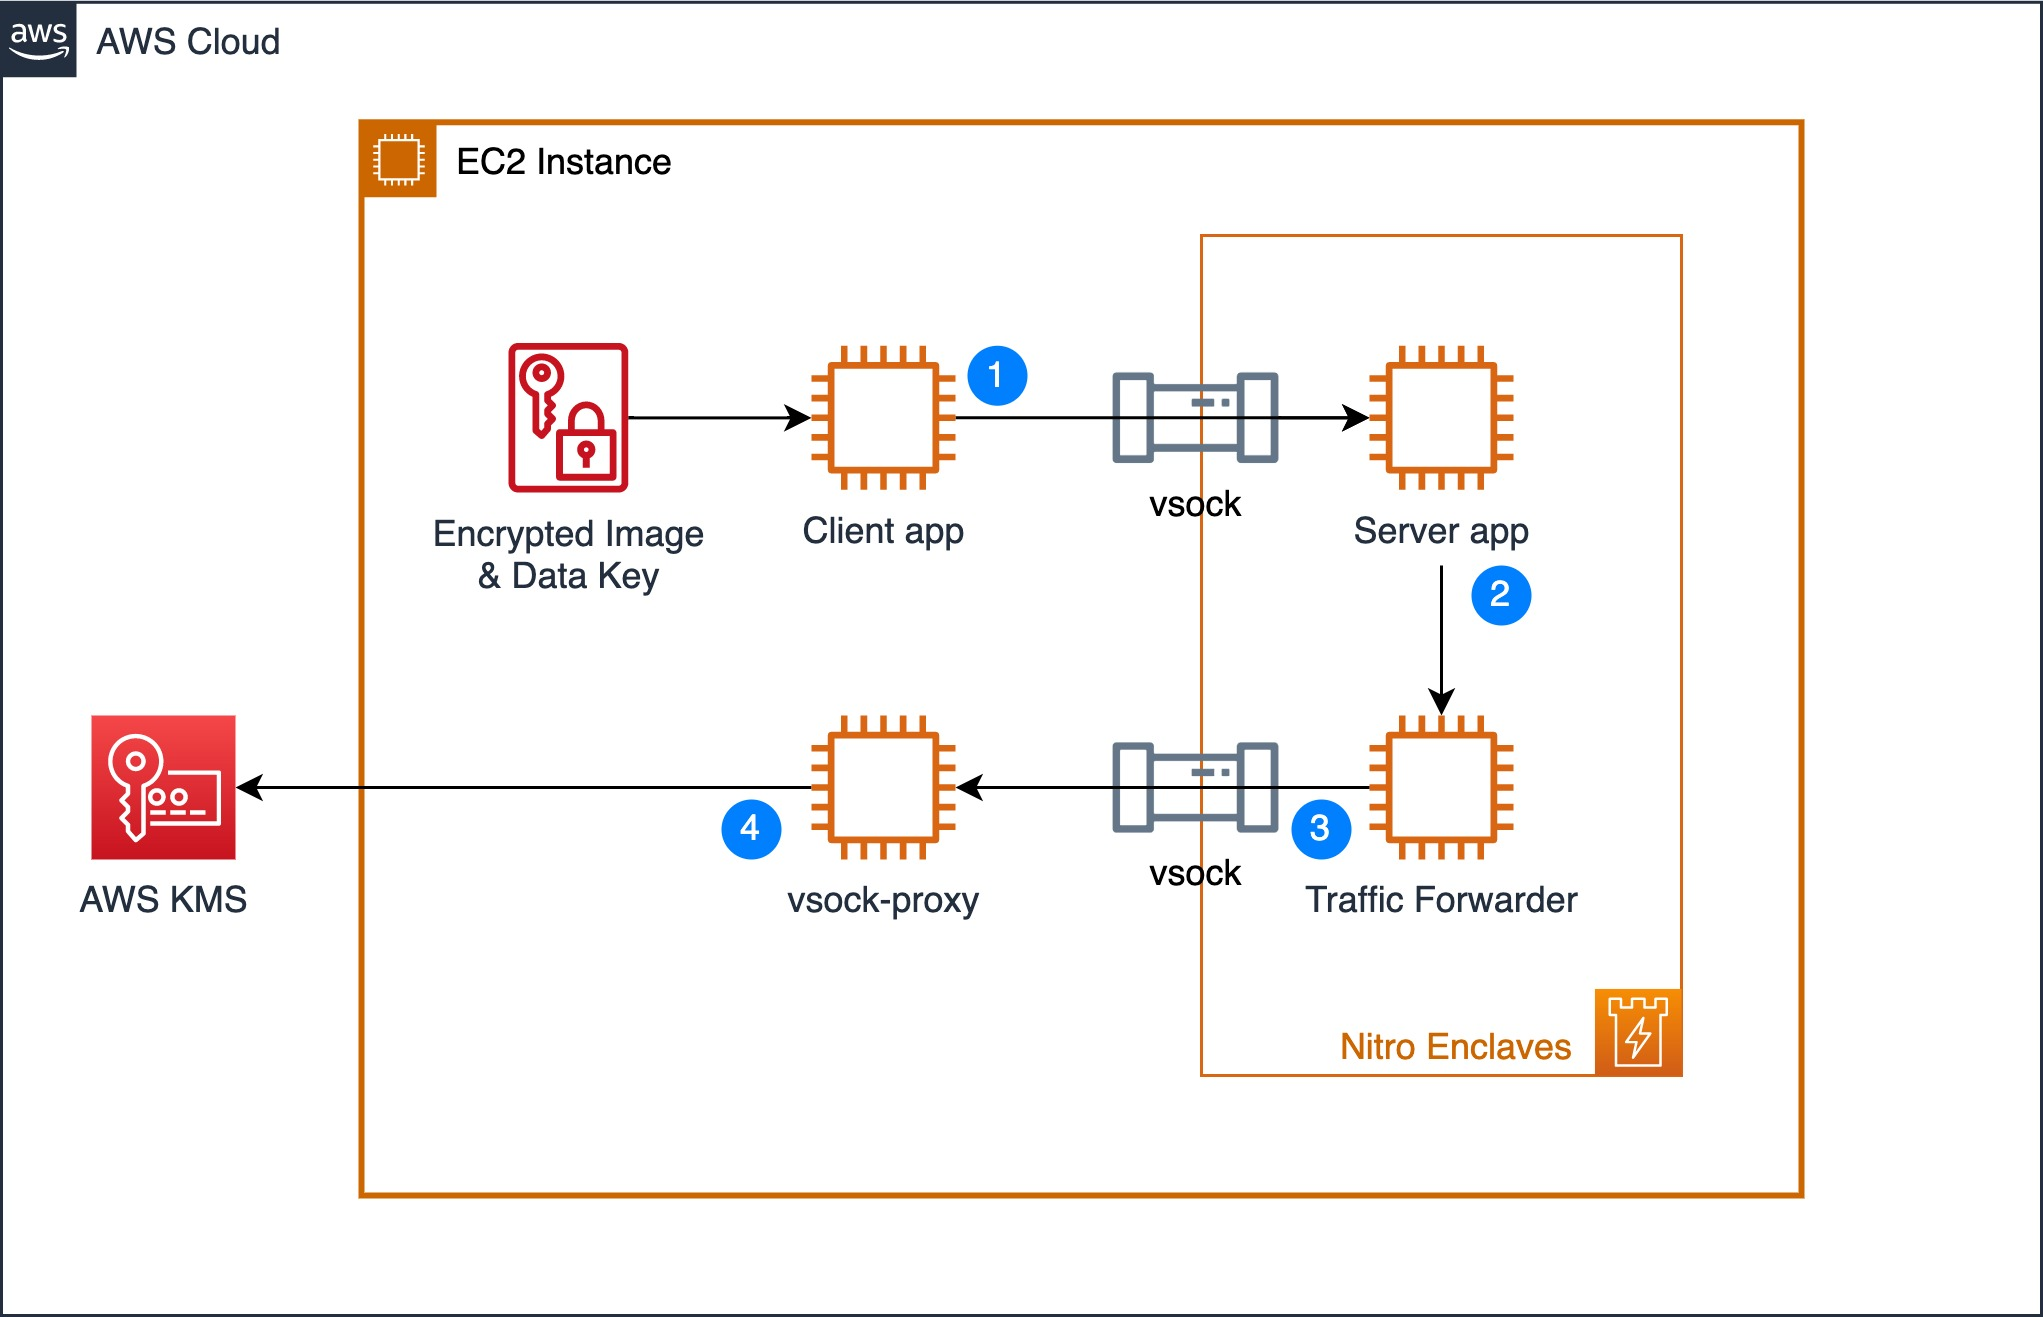
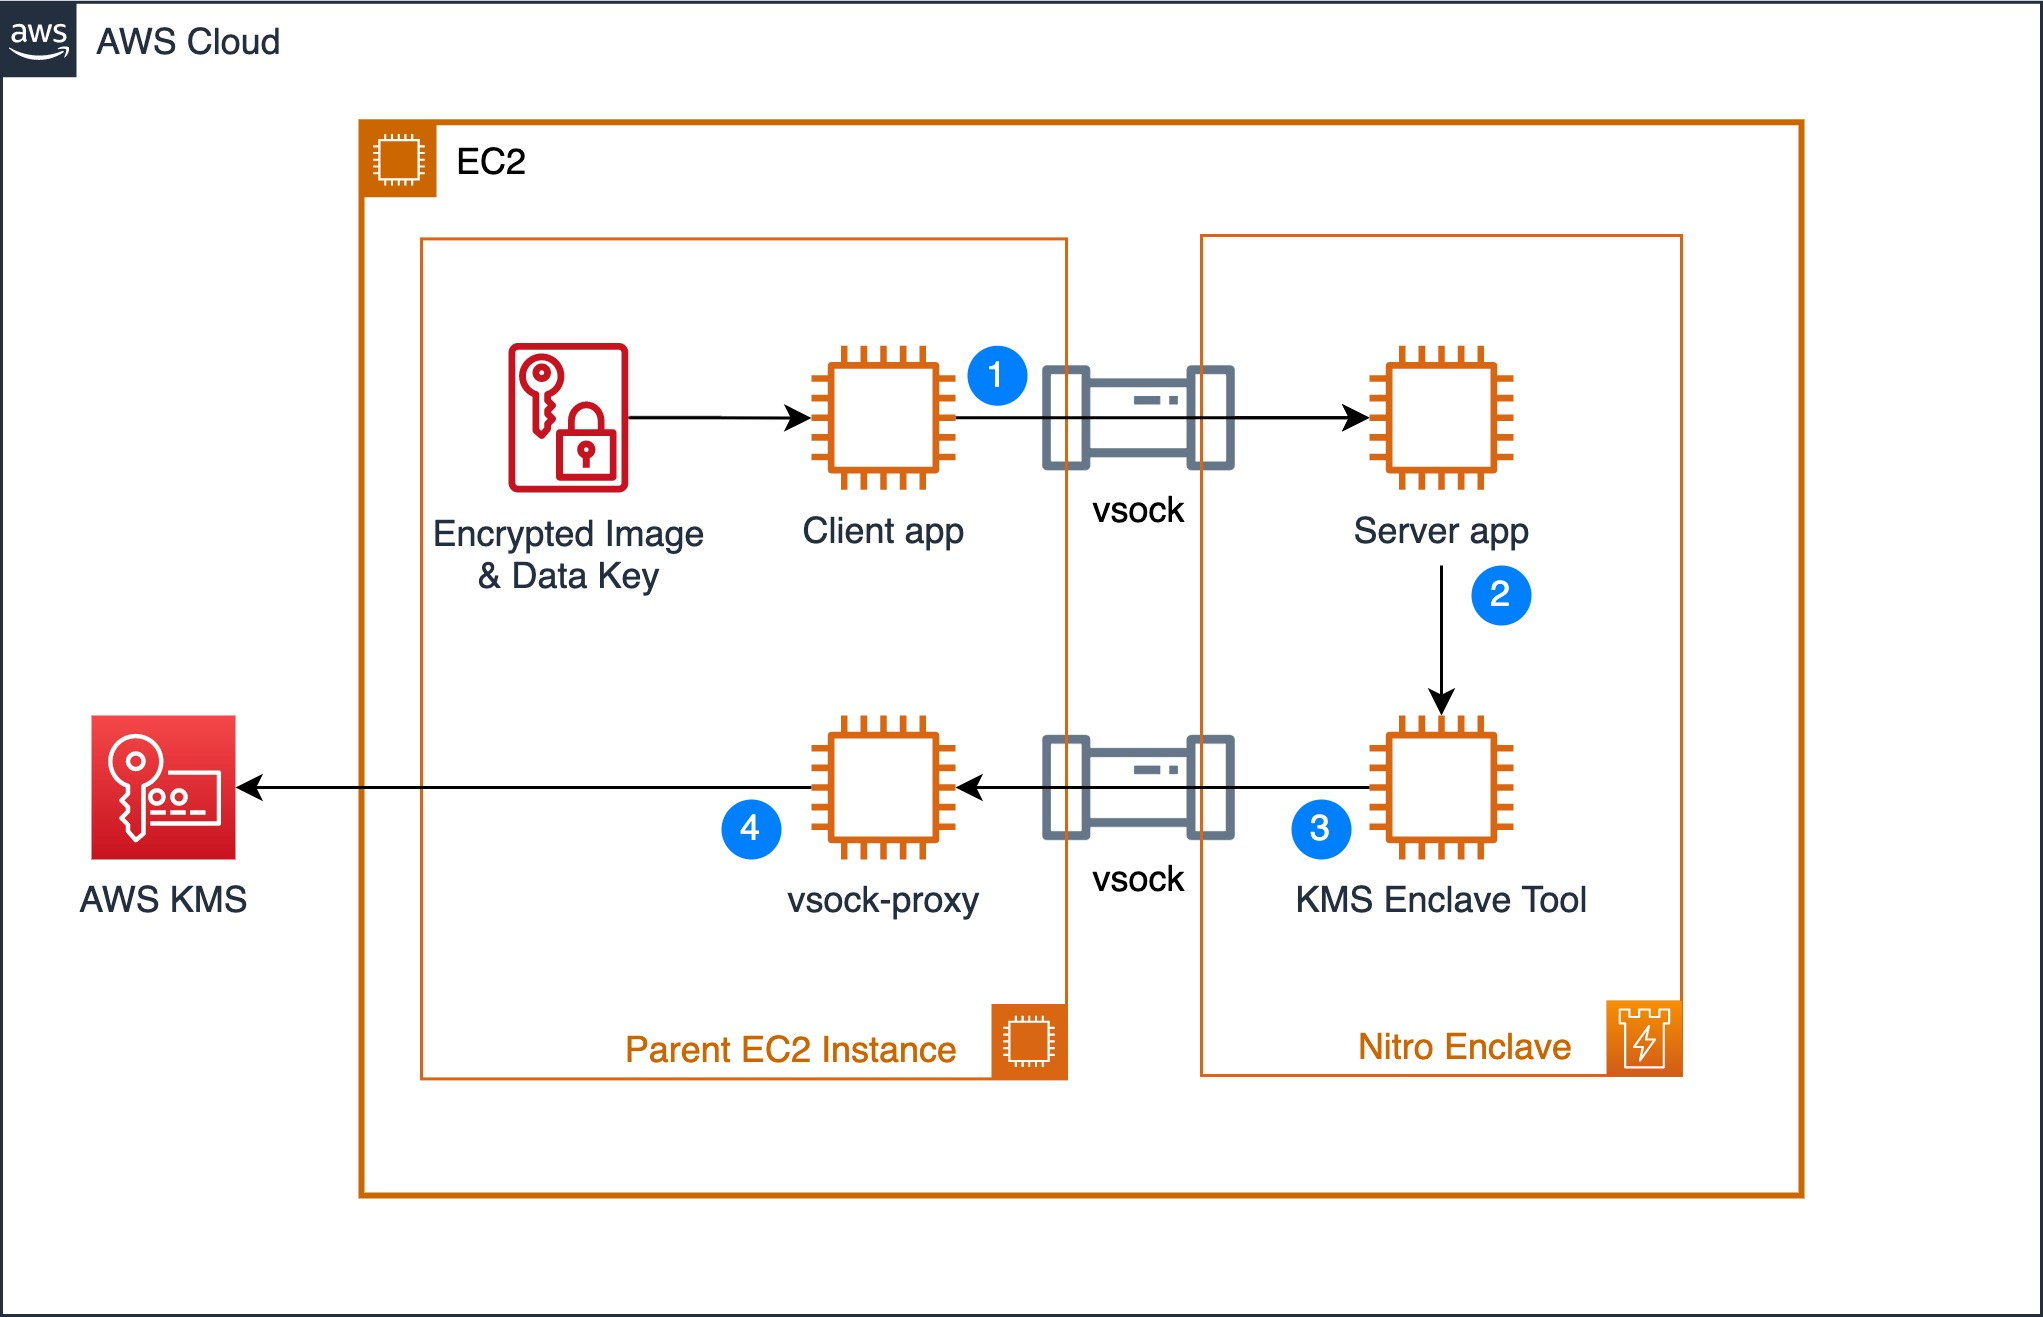
Updates project to exclude Traffic Forwarder

diff --git a/README.md b/README.md
@@ -12,7 +12,7 @@ For more information, check out [AWS Nitro System](https://aws.amazon.com/ec2/ni
 
 ## Overview
 
-In this blog, we are going to use an image of airplanes which we will encrypt using AWS KMS envelope encryption with a symmetrical customer master key (CMK), however you can also use asymmetrical keys to perform your encryption / decryption if you choose so.
+In this project, we are going to use an image of airplanes which we will encrypt using AWS KMS envelope encryption with a symmetrical customer master key (CMK).
 
 <img src="./assets/images/Nitro-Enclaves-High-Level-Envelope-Encryption.jpg" width="1000" />
 
@@ -22,11 +22,9 @@ Once the image is encrypted, the “Client app” will read the file and send it
  
 The server running inside a Nitro Enclave, retrieves the encrypted data key which is encrypted as part of the image file and need to send it to AWS KMS to in order to decrypt it and subsequently be able to decrypt the image before running inference on it. 
 
-To allow the Nitro Enclave to communicate with external endpoints such as AWS KMS, we will need to run a proxy server on the host instance (vsock-proxy) and Traffic Forwarder in the Nitro Enclave. 
+To allow the Nitro Enclave to communicate with AWS KMS, we use the [KMS Tool](https://github.com/aws/aws-nitro-enclaves-sdk-c/blob/main/docs/kmstool.md#kmstool-enclave-cli) which connects to AWS KMS and decrypts the encrypted key.
 
-Hence traffic initiated by the server app, such as the request to AWS KMS to decrypt the data key has to go through the Traffic Forwarder (on port 443) and from there to the vsock-proxy. The vsock-proxy will then route traffic to AWS KMS. 
-
-As part of the request to AWS KMS, the server app sends its unique cryptographically signed attestation document to AWS KMS to prove its identity. AWS KMS will validate the attestation document and if valid will decrypt the data key and return it to server app which can then use the data key to decrypt the airplanes image. 
+As part of the request to AWS KMS, the KMS Tool reads and sends its unique cryptographically signed attestation document to AWS KMS to prove its identity. AWS KMS will validate the attestation document and if valid will decrypt the data key and return it to server app which can then use the data key to decrypt the airplanes image. 
 
 Once the image is decrypted, the server app is able to run inference on the image using the pre-trained AI-ML model and detect the objects in the picture. 
 
@@ -145,7 +143,7 @@ vsock-proxy 8001 kms.ca-central-1.amazonaws.com 443 --config vsock-proxy-config.
 ```
 cd ~/aws-nitro-enclaves-ai-ml-object-detection/src
 ```
-3. Launch the client to send the encrypted image to the nitro enclave container and get the objects detected
+3. Launch the client to send the encrypted image to the nitro enclave container and get the objects detected. The first call might take about a minute or two to complete as the client waits for the server to boot up and load the TensorFlow model.
 ```
 python3 client.py --filePath ./images/air-show.jpg.encrypted | jq -C '.'
 ```
